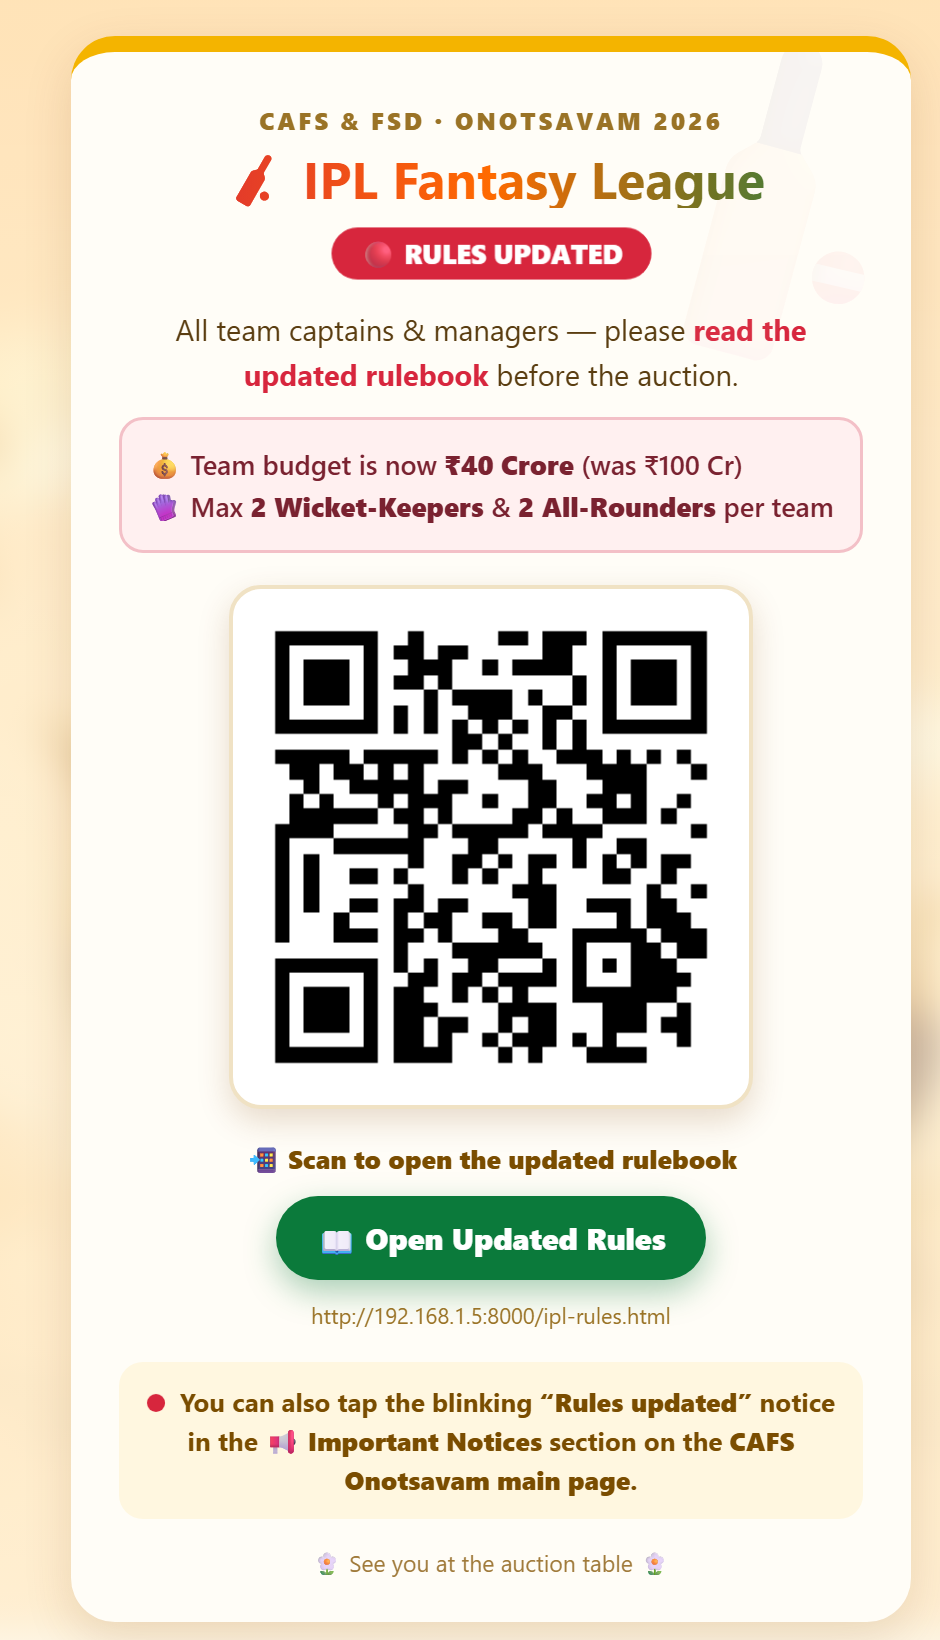
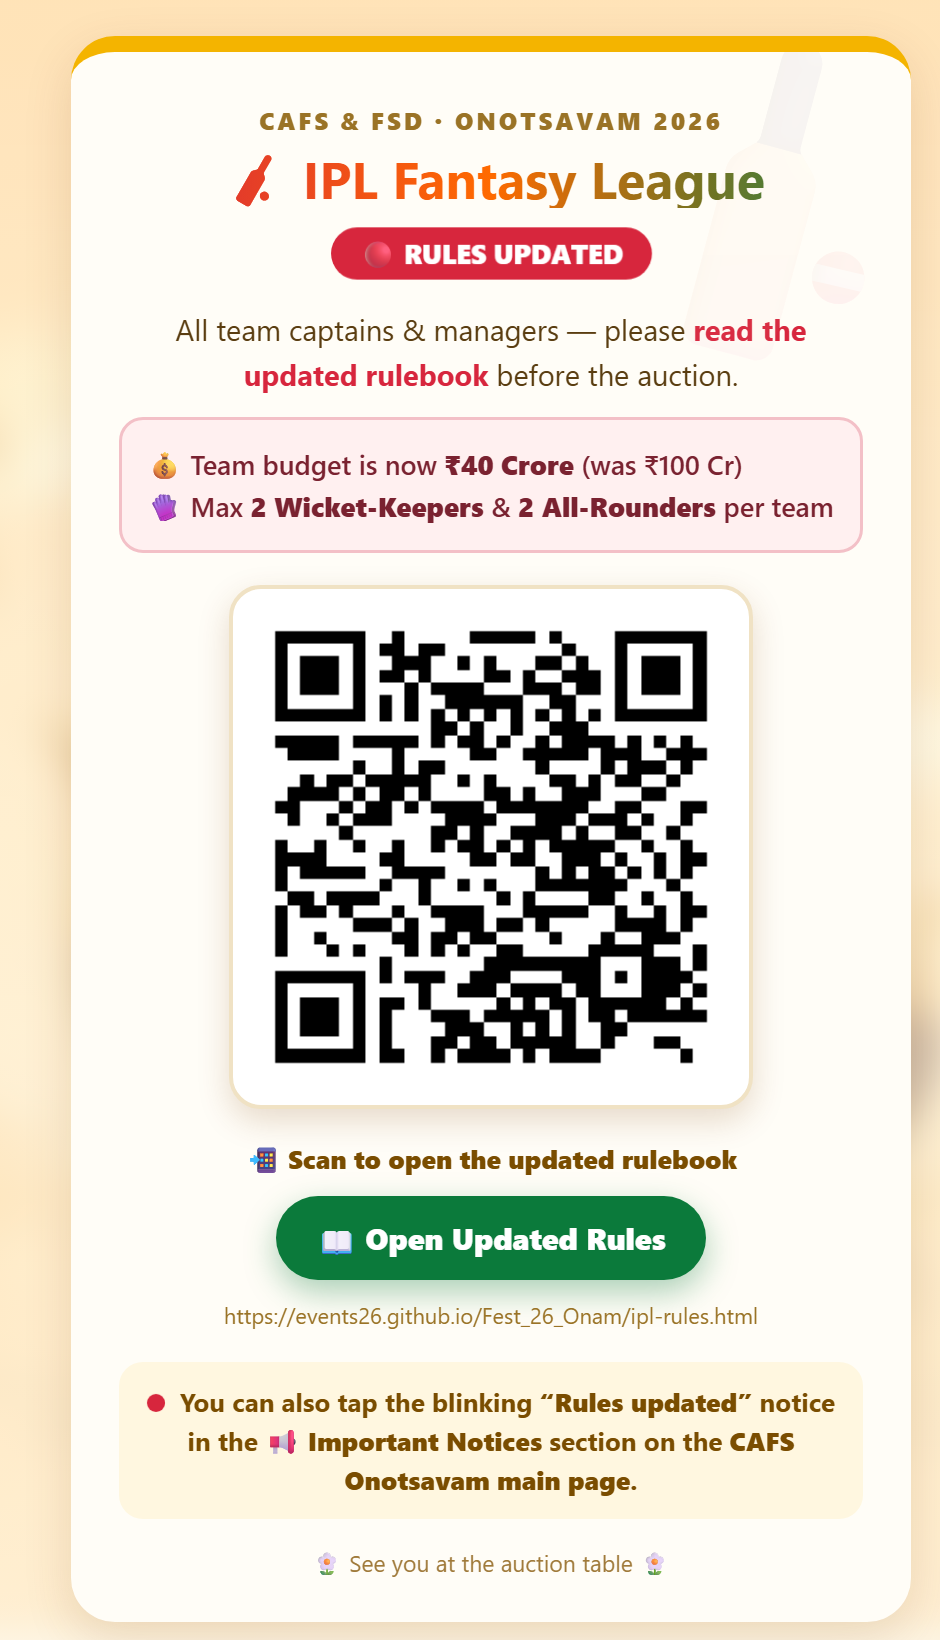
Point rules QR card at GitHub Pages URL; add "Watch Live Auction" link
- ipl-rules-card.html: QR + link now target the public Pages URL
  (https://events26.github.io/Fest_26_Onam/ipl-rules.html) so they work
  off-network; regenerated CAFS_IPL_Rules_Card.png to match.
- ipl-rules.html: added a "Watch the Live Auction" button to the auction
  view screen.

Changed region(s): [[0.2777, 0.3732, 0.7713, 0.653], [0.2468, 0.7774, 0.8021, 0.8085]]

diff --git a/ipl-rules.html b/ipl-rules.html
@@ -58,6 +58,12 @@
     <h1>🏏 IPL Fantasy Auction — Official Rulebook</h1>
     <div class="sub">CAFS Onotsavam 2026 · Squad-building auction for 8 teams</div>
     <div class="updated">UPDATED · v2 · 03 Aug 2026</div>
+    <div style="margin-top:14px">
+      <a href="ipl-auction.html" style="display:inline-block;background:var(--green);color:#fff;text-decoration:none;
+        font-weight:800;font-size:15px;padding:11px 22px;border-radius:26px;box-shadow:0 6px 16px rgba(11,122,59,.35)">
+        📺 Watch the Live Auction →</a>
+      <div style="font-size:12px;color:#9a7326;margin-top:6px;font-weight:600">Choose “Team Member · view only” to follow along</div>
+    </div>
   </div>
 
   <section>

diff --git a/ipl-rules-card.html b/ipl-rules-card.html
@@ -84,7 +84,7 @@
   /* Point the QR/link at your hosted rules page.
      Leave SITE_BASE = "" to auto-detect from this page's own address.
      To hardcode, set e.g. SITE_BASE = "https://your-onam-site.com/". */
-  const SITE_BASE = "";
+  const SITE_BASE = "https://events26.github.io/Fest_26_Onam/";
   const RULES_URL = SITE_BASE
       ? SITE_BASE.replace(/\/?$/,'/') + "ipl-rules.html"
       : new URL("ipl-rules.html", location.href).href;
